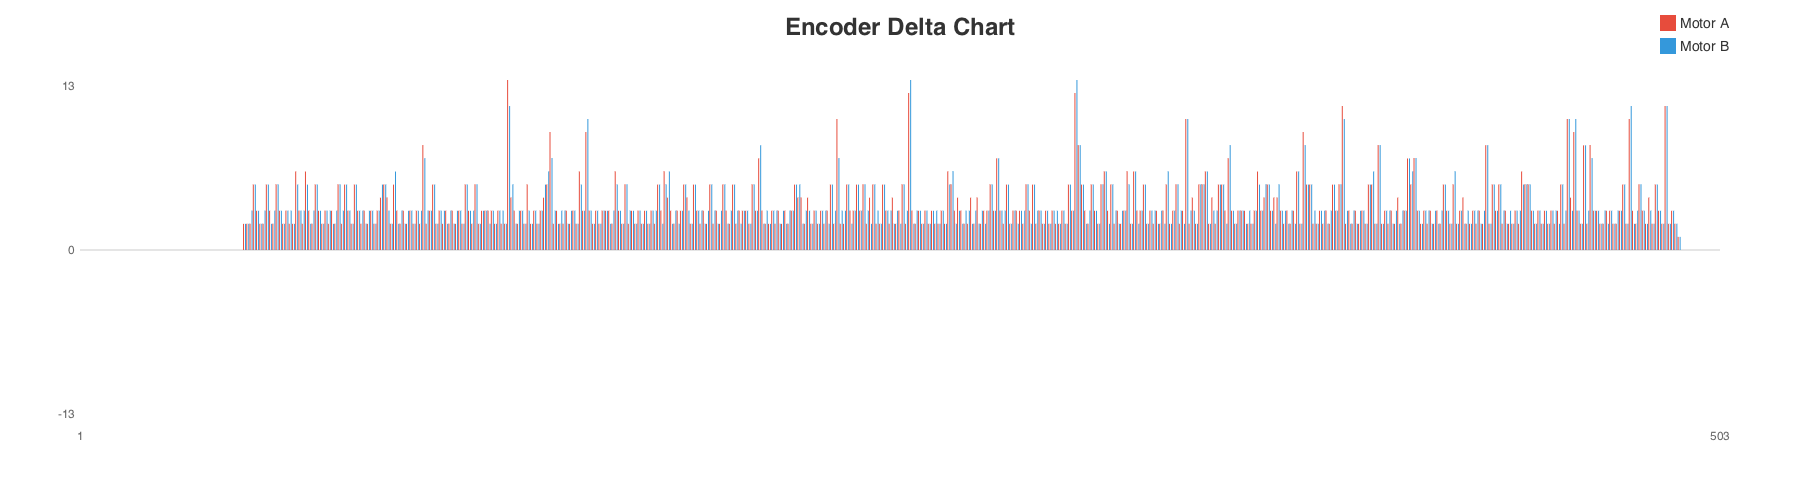
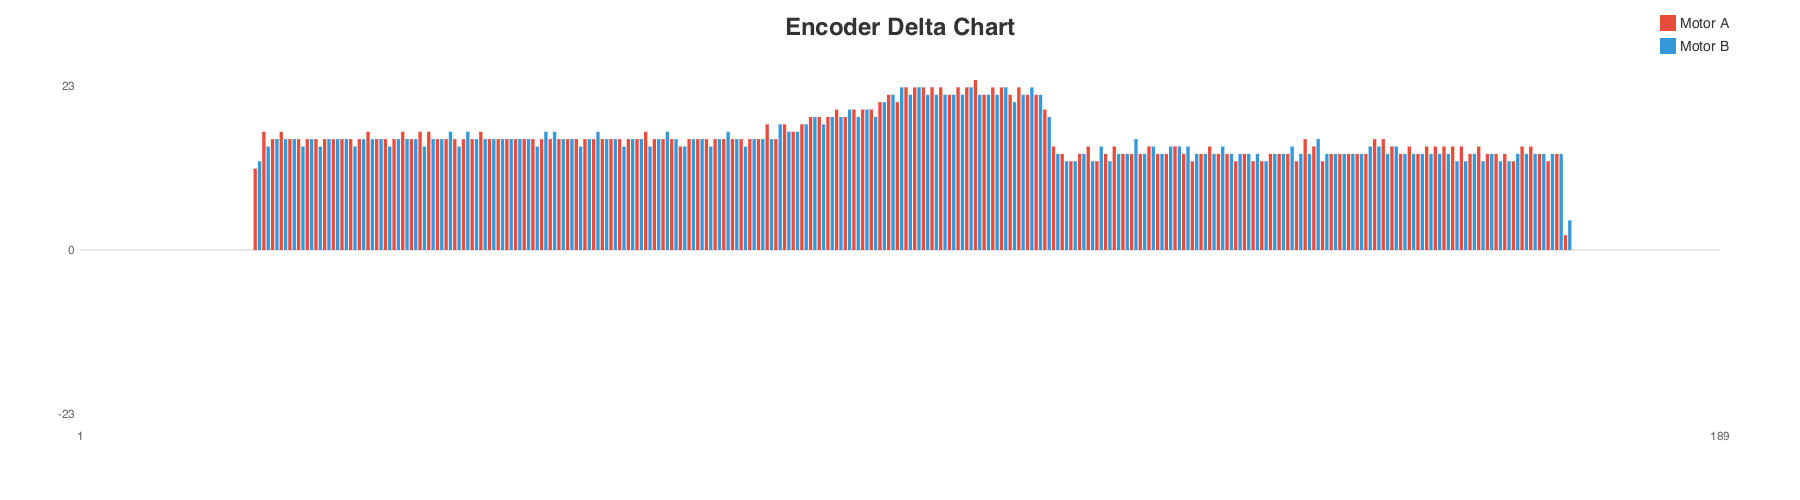
优化了推理逻辑（预处理和后处理等）

Changed region(s): [[0.1244, 0.15, 0.9333, 0.51]]

diff --git a/main/app_main.cpp b/main/app_main.cpp
@@ -530,17 +530,24 @@ static void handle_client(int client_sock)
     char buf[64];
 
     while (1) {
-        int len = recv(client_sock, buf, sizeof(buf) - 1, 0);
-        if (len <= 0) {
+        char cmd[32] = {};
+        int ci = 0;
+        while (ci < (int)sizeof(cmd) - 1) {
+            int r = recv(client_sock, cmd + ci, 1, 0);
+            if (r <= 0) break;
+            if (cmd[ci] == '\n') break;
+            ci++;
+        }
+        if (ci <= 0) {
             ESP_LOGI(TAG, "[TCP] 客户端断开");
             break;
         }
-        buf[len] = '\0';
+        cmd[ci] = '\0';
 
-        ESP_LOGI(TAG, "[TCP] 收到命令: %s", buf);
+        ESP_LOGI(TAG, "[TCP] 收到命令: %s", cmd);
 
-        if (strncmp(buf, "START:", 6) == 0) {
-            int speed = atoi(buf + 6);
+        if (strncmp(cmd, "START:", 6) == 0) {
+            int speed = atoi(cmd + 6);
             if (speed >= 1 && speed <= 100) {
                 g_motor_running = true;
                 g_motor_base_speed = speed * 255 / 100;
@@ -549,12 +556,12 @@ static void handle_client(int client_sock)
                 ESP_LOGI(TAG, "[Motor] 启动速度%d%%, PWM=%d", speed, g_motor_base_speed);
             }
         }
-        else if (strncmp(buf, "SPEED:", 6) == 0) {
+        else if (strncmp(cmd, "SPEED:", 6) == 0) {
             if (!g_motor_running) {
                 ESP_LOGI(TAG, "[Motor] 电机未启动，忽略SPEED命令");
                 continue;
             }
-            int speed = atoi(buf + 6);
+            int speed = atoi(cmd + 6);
             if (speed >= 1 && speed <= 100) {
                 g_motor_base_speed = speed * 255 / 100;
                 motor_l_forward(g_motor_base_speed);
@@ -562,31 +569,31 @@ static void handle_client(int client_sock)
                 ESP_LOGI(TAG, "[Motor] 速度设置为%d%%, PWM=%d", speed, g_motor_base_speed);
             }
         }
-        else if (strncmp(buf, "MOTOR_LEFT", 10) == 0) {
+        else if (strncmp(cmd, "MOTOR_LEFT", 10) == 0) {
             if (!g_motor_running) continue;
             motor_r_forward(g_motor_base_speed);
             motor_l_forward(g_motor_base_speed / 2);
             ESP_LOGI(TAG, "[Motor] 左转: L=%d, R=%d", g_motor_base_speed / 2, g_motor_base_speed);
         }
-        else if (strncmp(buf, "MOTOR_RIGHT", 11) == 0) {
+        else if (strncmp(cmd, "MOTOR_RIGHT", 11) == 0) {
             if (!g_motor_running) continue;
             motor_l_forward(g_motor_base_speed);
             motor_r_forward(g_motor_base_speed / 2);
             ESP_LOGI(TAG, "[Motor] 右转: L=%d, R=%d", g_motor_base_speed, g_motor_base_speed / 2);
         }
-        else if (strncmp(buf, "MOTOR_FORWARD", 13) == 0) {
+        else if (strncmp(cmd, "MOTOR_FORWARD", 13) == 0) {
             if (!g_motor_running) continue;
             motor_l_forward(g_motor_base_speed);
             motor_r_forward(g_motor_base_speed);
             ESP_LOGI(TAG, "[Motor] 直行: L=%d, R=%d", g_motor_base_speed, g_motor_base_speed);
         }
-        else if (strncmp(buf, "STOP", 4) == 0 && (buf[4] == '\0' || buf[4] == '\n' || buf[4] == '\r')) {
+        else if (strncmp(cmd, "STOP", 4) == 0 && (cmd[4] == '\0' || cmd[4] == '\n' || cmd[4] == '\r')) {
             motor_stop();
             g_motor_base_speed = 0;
             g_motor_running = false;
             ESP_LOGI(TAG, "[Motor] 收到STOP命令，电机已停止");
         }
-        else if (strncmp(buf, "CAPTURE", 7) == 0) {
+        else if (strncmp(cmd, "CAPTURE", 7) == 0) {
             int64_t t_start = esp_timer_get_time();
 
             int64_t t1 = esp_timer_get_time();
@@ -605,21 +612,26 @@ static void handle_client(int client_sock)
 
             // ========== 图像预处理 ==========
             int64_t t3 = esp_timer_get_time();
-            
-            // 获取模型输入 tensor
+
+            // 获取模型输入tensor和量化参数
             dl::TensorBase *input_tensor = g_model->get_input("input");
             std::vector<int> in_shape = input_tensor->get_shape();
-            ESP_LOGI(TAG, "[Input] Tensor shape: %d x %d x %d x %d", 
+            ESP_LOGI(TAG, "[Input] Tensor shape: %d x %d x %d x %d",
                      in_shape.size() > 0 ? in_shape[0] : 0,
                      in_shape.size() > 1 ? in_shape[1] : 0,
                      in_shape.size() > 2 ? in_shape[2] : 0,
                      in_shape.size() > 3 ? in_shape[3] : 0);
-            
-            uint8_t *model_input = (uint8_t *)input_tensor->data;
-            
-            // 直接复制原始图像到模型输入 (不resize)
-            memcpy(model_input, fb->buf, INPUT_WIDTH * INPUT_HEIGHT);
-            
+
+            int8_t *model_input = (int8_t *)input_tensor->data;
+            int exponent = input_tensor->get_exponent();
+            float inv_scale = DL_RESCALE(exponent);
+
+            // 归一化并量化: uint8 [0,255] -> float [0.0,1.0] -> int8
+            for (int i = 0; i < INPUT_WIDTH * INPUT_HEIGHT; i++) {
+                float normalized = fb->buf[i] / 255.0f;
+                model_input[i] = (int8_t)DL_CLIP(dl::tool::round(normalized * inv_scale), -128, 127);
+            }
+
             int64_t t4 = esp_timer_get_time();
             ESP_LOGI(TAG, "[Preprocess] 预处理耗时%.1fms", (t4 - t3) / 1000.0);
 
@@ -711,10 +723,10 @@ static void handle_client(int client_sock)
             
             esp_camera_fb_return(fb);
         }
-        else if (strncmp(buf, "UDP_HELLO", 9) == 0) {
+        else if (strncmp(cmd, "UDP_HELLO", 9) == 0) {
             // 解析客户端UDP端口: UDP_HELLO:端口
             int client_udp_port = 0;
-            char *port_str = strchr(buf, ':');
+            char *port_str = strchr(cmd, ':');
             if (port_str) {
                 client_udp_port = atoi(port_str + 1);
             }
@@ -747,7 +759,7 @@ static void handle_client(int client_sock)
                          client_udp_port, g_udp_sock);
             }
         }
-        else if (strncmp(buf, "STREAM", 6) == 0) {
+        else if (strncmp(cmd, "STREAM", 6) == 0) {
             ESP_LOGI(TAG, "========== STREAM 开始 ==========");
             ESP_LOGI(TAG, "[Stream] UDP状态: ready=%d, sock=%d", g_udp_client_ready, g_udp_sock);
             
